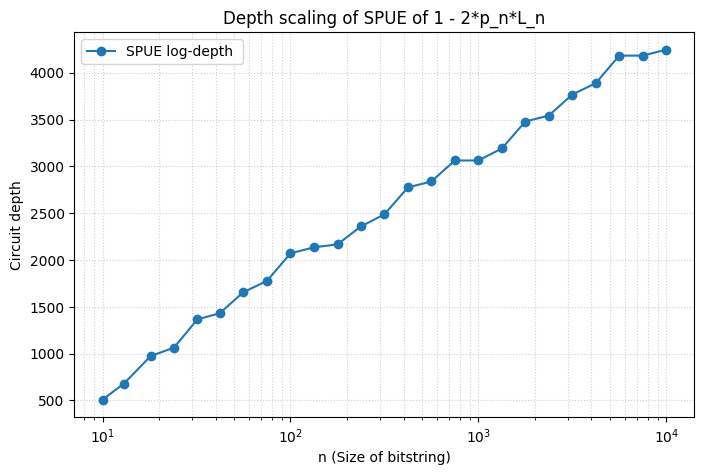
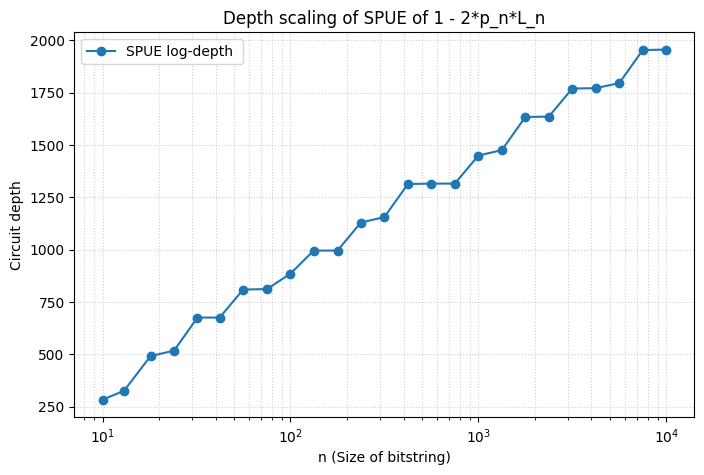
Modifs

diff --git a/spue_circuit.py b/spue_circuit.py
@@ -2,42 +2,16 @@ import numpy as np
 from qiskit import QuantumCircuit
 from exact_one_x_cx_ccx import exact_one_gate
 
-# Implementation of the Fan_out_1 gate is based on Algorithm 1 from paper : Ancilla-free Quantum Adder with Sublinear Depth (https://arxiv.org/pdf/2501.16802)
-# Authors : Maxime Remaud and Vivien Vandaele
+### FAN-OUT GATE
 
-def L1(n):
-    qc =  QuantumCircuit(n)
-    if n == 1:
-        return qc
-    if n == 2:
-        qc.cx(0,1)
-        return qc
-    else :
-        X = [1]
-        CR = [[0,1]]
-        CL = [[n-2,n-1]]
-        for i in range(1,int(np.ceil(n/2))-1):
-            CL.append([2*i-1,2*i])
-            CR.append([2*i,2*i+1])
-            X.append(2*i+1)
-        if n%2 == 0:
-            X.append(n-2)
-        for k in CL:
-                qc.cx(k[0],k[1])
-        qc_mid = L1(len(X))
-        qc.compose(qc_mid, qubits=X, inplace=True)
-        for m in CR:
-                qc.cx(m[0],m[1])
-        return qc
-      
-def F1(n):
-     qc = QuantumCircuit(n+1)
-     qc1 = L1(n+1)
-     qc2 = L1(n)
-     qc.compose(qc1, qubits = qc.qubits, inplace=True)
-     qc.compose(qc2.inverse(), qubits = list(range(1,n+1)), inplace=True)
-     gate = qc.to_gate(label = f"F1_{n}")
-     return gate
+def Fan_out(n):
+    qc = QuantumCircuit(n+1)
+    for i in range(np.floor(np.log2(n+1)).astype(int)+1):
+        for j in range(2**i):
+            if 2**i + j < n+1:
+                qc.cx(j, 2**i + j)
+    gate = qc.to_gate(label = f"Fan_out_{n}")
+    return gate
 
 ### SPUE CIRCUIT CONSTRUCTION
 
@@ -89,7 +63,7 @@ def build_prepare_select_prepare_dag(n):
     qc.append(prepare, q + [anc[0], anc[1], flag])
 
     # SELECT
-    fan_out_gate = F1(n)
+    fan_out_gate = Fan_out(n)
     qc.append(fan_out_gate,[flag]+anc)
     for i in range(n):
         qc.ccz(anc[i], q[i], b[i])

diff --git a/log_mcx_x_cx_ccx.py b/log_mcx_x_cx_ccx.py
@@ -227,8 +227,8 @@ def mcx_log_gate(ncontrol, clean1=True, clean2 =False, trace_depth_and_size=Fals
         if t[0] == 0:
             qc.ccx(x, y, t)
         else:
-            qc.ccx(x, y, t)
             qc.x(t)
+            qc.ccx(x, y, t)    
 
     #Central linear MCX
     linear_mcx = mcx_linear_gate(len(final_ctrls), clean=clean2)
@@ -239,21 +239,21 @@ def mcx_log_gate(ncontrol, clean1=True, clean2 =False, trace_depth_and_size=Fals
         if t[0] == 0:
             qc.ccx(x, y, t)
         else:
-            qc.x(t)
             qc.ccx(x, y, t)
+            qc.x(t)
 
     if not clean1:
         #Ladder_ops
         for (x, y, t) in ladder_ops[1:]:
-                qc.ccx(x, y, t)
                 qc.x(t)
+                qc.ccx(x, y, t)
 
         #Central linear MCX
         qc.append(linear_mcx, final_ctrls + [anc2, target])
         #Reverse_Ladder_ops
         for (x, y, t) in reversed(ladder_ops[1:]):
-                qc.x(t)
                 qc.ccx(x, y, t)
+                qc.x(t)
         
     qc_reordered = QuantumCircuit(nqubits)
     qc_reordered.compose(qc, qubits = [anc1] + controls + [anc2, target], inplace=True)

diff --git a/exact_one_construction_test.py b/exact_one_construction_test.py
@@ -1,3 +1,7 @@
+"""
+The code below is based on construction test from https://github.com/BaptisteClaudon/Polylog_MCX-public.
+"""
+
 import collections
 import itertools
 import random

diff --git a/log_mcx_construction_test.py b/log_mcx_construction_test.py
@@ -1,3 +1,7 @@
+"""
+The code below is based on construction test from https://github.com/BaptisteClaudon/Polylog_MCX-public.
+"""
+
 import collections
 import itertools
 import random
